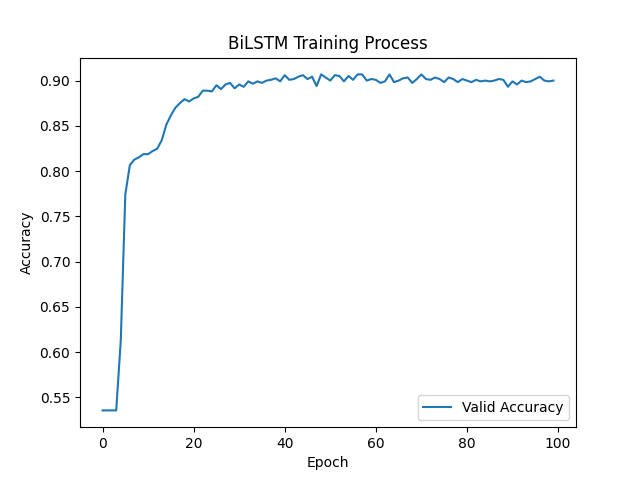
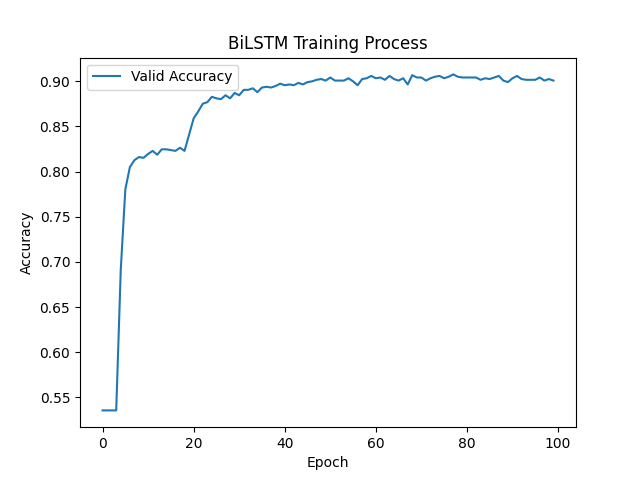
update models

diff --git a/models/__init__.py b/models/__init__.py
@@ -126,17 +126,18 @@ def startTraining(device):
     key = input('Choose one of these classification to train:\n1. LSTM\n2. BiLSTM\n3. CNN\n4. XGBoost\n5. FC\nYour Input: ')
 
     data = torch.cat((title, content), dim=-1)
+    emb_tech = 1 if source == 'phobert' else 2
 
     if key == '1':
-        train(LSTM(device=device, dropout=0.1), input=data, output=rating, device=device)      
+        train(LSTM(device=device, dropout=0.3, emb_tech=emb_tech), input=data, output=rating, device=device)      
     elif key == '2':
-        train(BiLSTM(device=device, dropout=0.1), input=data, output=rating, device=device)      
+        train(BiLSTM(device=device, dropout=0.1, emb_tech=emb_tech), input=data, output=rating, device=device)      
     elif key == '3':
-        train(CNN2d(device=device, dropout=0.1), input=data, output=rating, device=device)      
+        train(CNN2d(device=device, dropout=0.1, emb_tech=emb_tech), input=data, output=rating, device=device)      
     elif key == '4':
-        train(XGBoost(), input=data, output=rating, device=device)      
+        train(XGBoost(emb_tech=emb_tech), input=data, output=rating, device=device)      
     elif key == '5':
-        train(FC(emb_dim=data.size(-1), device=device), input=data, output=rating, device=device)
+        train(FC(emb_dim=data.size(-1), device=device, emb_tech=emb_tech), input=data, output=rating, device=device)
     else:
         print('Wrong key of model, please choose again')
 
@@ -170,7 +171,7 @@ def train(model, input, output, device):
 
     else:
         criterion = nn.CrossEntropyLoss()
-        optimizer = opt.Adam(model.parameters(), lr=0.00001)
+        optimizer = opt.Adam(model.parameters(), lr=0.01)
         # dataset = TensorDataset(input, output)
         train_data = DataLoader(TensorDataset(input[:train_size], output[:train_size]), batch_size=batch_size, shuffle=True)
         valid_data = DataLoader(TensorDataset(input[train_size:train_size+val_size], output[train_size:train_size+val_size]), batch_size=batch_size, shuffle=True)
@@ -266,7 +267,8 @@ def train(model, input, output, device):
         print(report)
 
     # Save report
-    with open(f'res/report/{model.model_name}.txt', 'w') as file:
+    direction = 'phobert' if model.emb_tech == 1 else 'phow2v'
+    with open(f'res/report/{direction}/{model.model_name}.txt', 'w') as file:
         file.write(report)
 
     # Visualize model val train processing
@@ -276,5 +278,5 @@ def train(model, input, output, device):
     plt.ylabel('Accuracy')
     plt.xlabel('Epoch')
     plt.legend()
-    plt.savefig(f'res/train_process/{model.model_name}.png')
+    plt.savefig(f'res/train_process/{direction}/{model.model_name}.png')
     plt.close()

diff --git a/models/BiLSTM/__init__.py b/models/BiLSTM/__init__.py
@@ -2,47 +2,49 @@ import torch
 import torch.nn as nn
 import json
 
-with open('models/LSTM/config.json', 'r') as file:
+with open('models/BiLSTM/config.json', 'r') as file:
     config = json.load(file)
 
-config = config['phobert']
+phobert_config = config['phobert']
+phow2v_config = config['phow2v']
 num_classes = 3
 
 class BiLSTM(nn.Module):
-    def __init__(self, device, dropout=0.1):
+    def __init__(self, device, emb_tech, dropout=0.1):
         super(BiLSTM, self).__init__()
+        config = phobert_config if emb_tech == 1 else phow2v_config
         self.model_name = 'BiLSTM'
         self.input_size = config['input_size']
         self.hidden_size = config['hidden_size']
         self.num_layers = config['num_layers']
+        self.emb_tech = emb_tech
 
         self.lstm = nn.LSTM(input_size=self.input_size, hidden_size=self.hidden_size,\
                             num_layers=self.num_layers, device=device, dropout=dropout,\
                             batch_first=True, bidirectional=True)
 
-        self.fc1 = nn.Linear(self.hidden_size*2, 256)
-        self.fc2 = nn.Linear(256, 128)
-        self.fc3 = nn.Linear(128, num_classes)
+        first_emb = 128 if emb_tech == 1 else 32
+        self.fc1 = nn.Linear(self.hidden_size*2, num_classes)
+        self.fc2 = nn.Linear(first_emb, num_classes)
         self.softmax = nn.Softmax(dim=1)
         self.dropout = nn.Dropout(p=dropout)
 
     def forward(self, x):
-        # Init hidden state and cell state
-        h0 = torch.zeros(self.num_layers * 2, x.size(0), self.hidden_size).to(x.device)
-        c0 = torch.zeros(self.num_layers * 2, x.size(0), self.hidden_size).to(x.device)
-        x = x.unsqueeze(1)
+        if self.emb_tech == 1:
+            x = x.unsqueeze(1)
+
+            h0 = torch.zeros(self.num_layers*2, x.size(0), self.hidden_size).to(x.device)
+            c0 = torch.zeros(self.num_layers*2, x.size(0), self.hidden_size).to(x.device)
+            out, _ = self.lstm(x, (h0, c0))
+            out = out[:, -1, :]
         
-        # Forward propagate LSTM
-        out, _ = self.lstm(x, (h0, c0))
+        else:
+            _, (hn, _) = self.lstm(x)
+            out = torch.cat((hn[-2, :, :], hn[-1, :, :]), dim=1)
         
-        # Take the last hidden state
-        out = out[:, -1, :]
-        
-        # Pass through fully connected layer
         out = self.dropout(out)
         out = self.fc1(out)
-        out = self.fc2(out)
-        out = self.fc3(out)
+        # out = self.fc2(out)
         
         # Apply softmax for classification
         out = self.softmax(out)

diff --git a/models/FullyConnected/__init__.py b/models/FullyConnected/__init__.py
@@ -4,18 +4,28 @@ import torch.nn as nn
 num_classes = 3
 
 class FC(nn.Module):
-    def __init__(self, emb_dim, device, dropout=0.1):
+    def __init__(self, emb_dim, device, emb_tech, dropout=0.1):
         super(FC, self).__init__()
         self.model_name = 'FullyConnected'
         self.fc1 = nn.Linear(emb_dim, 1024)
         self.fc2 = nn.Linear(1024, 128)
         self.fc3 = nn.Linear(128, num_classes)
+        self.fc4 = nn.Linear(emb_dim, num_classes)
         self.sm = nn.Softmax(dim=1)
         self.dropout = nn.Dropout(p=dropout)
+        self.emb_tech = emb_tech
+
+        self.pool = nn.AdaptiveAvgPool1d(1)
+
 
     def forward(self, x):
-        out = self.fc1(x)
-        drop1 = self.dropout(out)
-        out = self.fc2(drop1)
-        out = self.fc3(out)
+        if self.emb_tech == 2:
+            x = self.pool(x.permute(0, 2, 1)).squeeze(2)
+        out = self.dropout(x)
+        if self.emb_tech == 1:
+            out = self.fc1(out)
+            out = self.fc2(out)
+            out = self.fc3(out)
+        else:
+            out = self.fc4(out)
         return self.sm(out)

diff --git a/feature_extract/__init__.py b/feature_extract/__init__.py
@@ -47,9 +47,11 @@ def useFeatureExtractor(device):
     if key == '1':
         title, title_attention = useIdentify(title)
         content, content_attention = useIdentify(content)
-
-    title = extractFeature(device, title, title_attention, model=model)
-    content = extractFeature(device, content, content_attention, model=model)
+        title = extractFeature(device, title, title_attention, model=model)
+        content = extractFeature(device, content, content_attention, model=model)
+    else:
+        title = extractFeature(device, title, model=model)
+        content = extractFeature(device, content, model=model)
 
     np.save(f'res/features/{model}_title_features.npy', title.cpu())
     np.save(f'res/features/{model}_content_features.npy', content.cpu())

diff --git a/models/XGBoost/__init__.py b/models/XGBoost/__init__.py
@@ -10,7 +10,7 @@ with open('models/XGBoost/config.json', 'r') as file:
 config = config['phobert']
 
 class XGBoost(nn.Module):
-    def __init__(self):
+    def __init__(self, emb_tech):
         super(XGBoost, self).__init__()
         self.model_name = 'XGBoost'
         self.params = {
@@ -23,8 +23,13 @@ class XGBoost(nn.Module):
             'device': 'cuda'
         }
         self.num_boost_round = config['num_boost_round']
+        self.pool = nn.AdaptiveAvgPool1d(1)
+        self.emb_tech = emb_tech
 
     def forward(self, x, y=None, train=True):
+        if self.emb_tech == 2:
+            x = x.reshape(x.shape[0], -1)
+
         if train:
             data = xgb.DMatrix(x, label=y)
 
